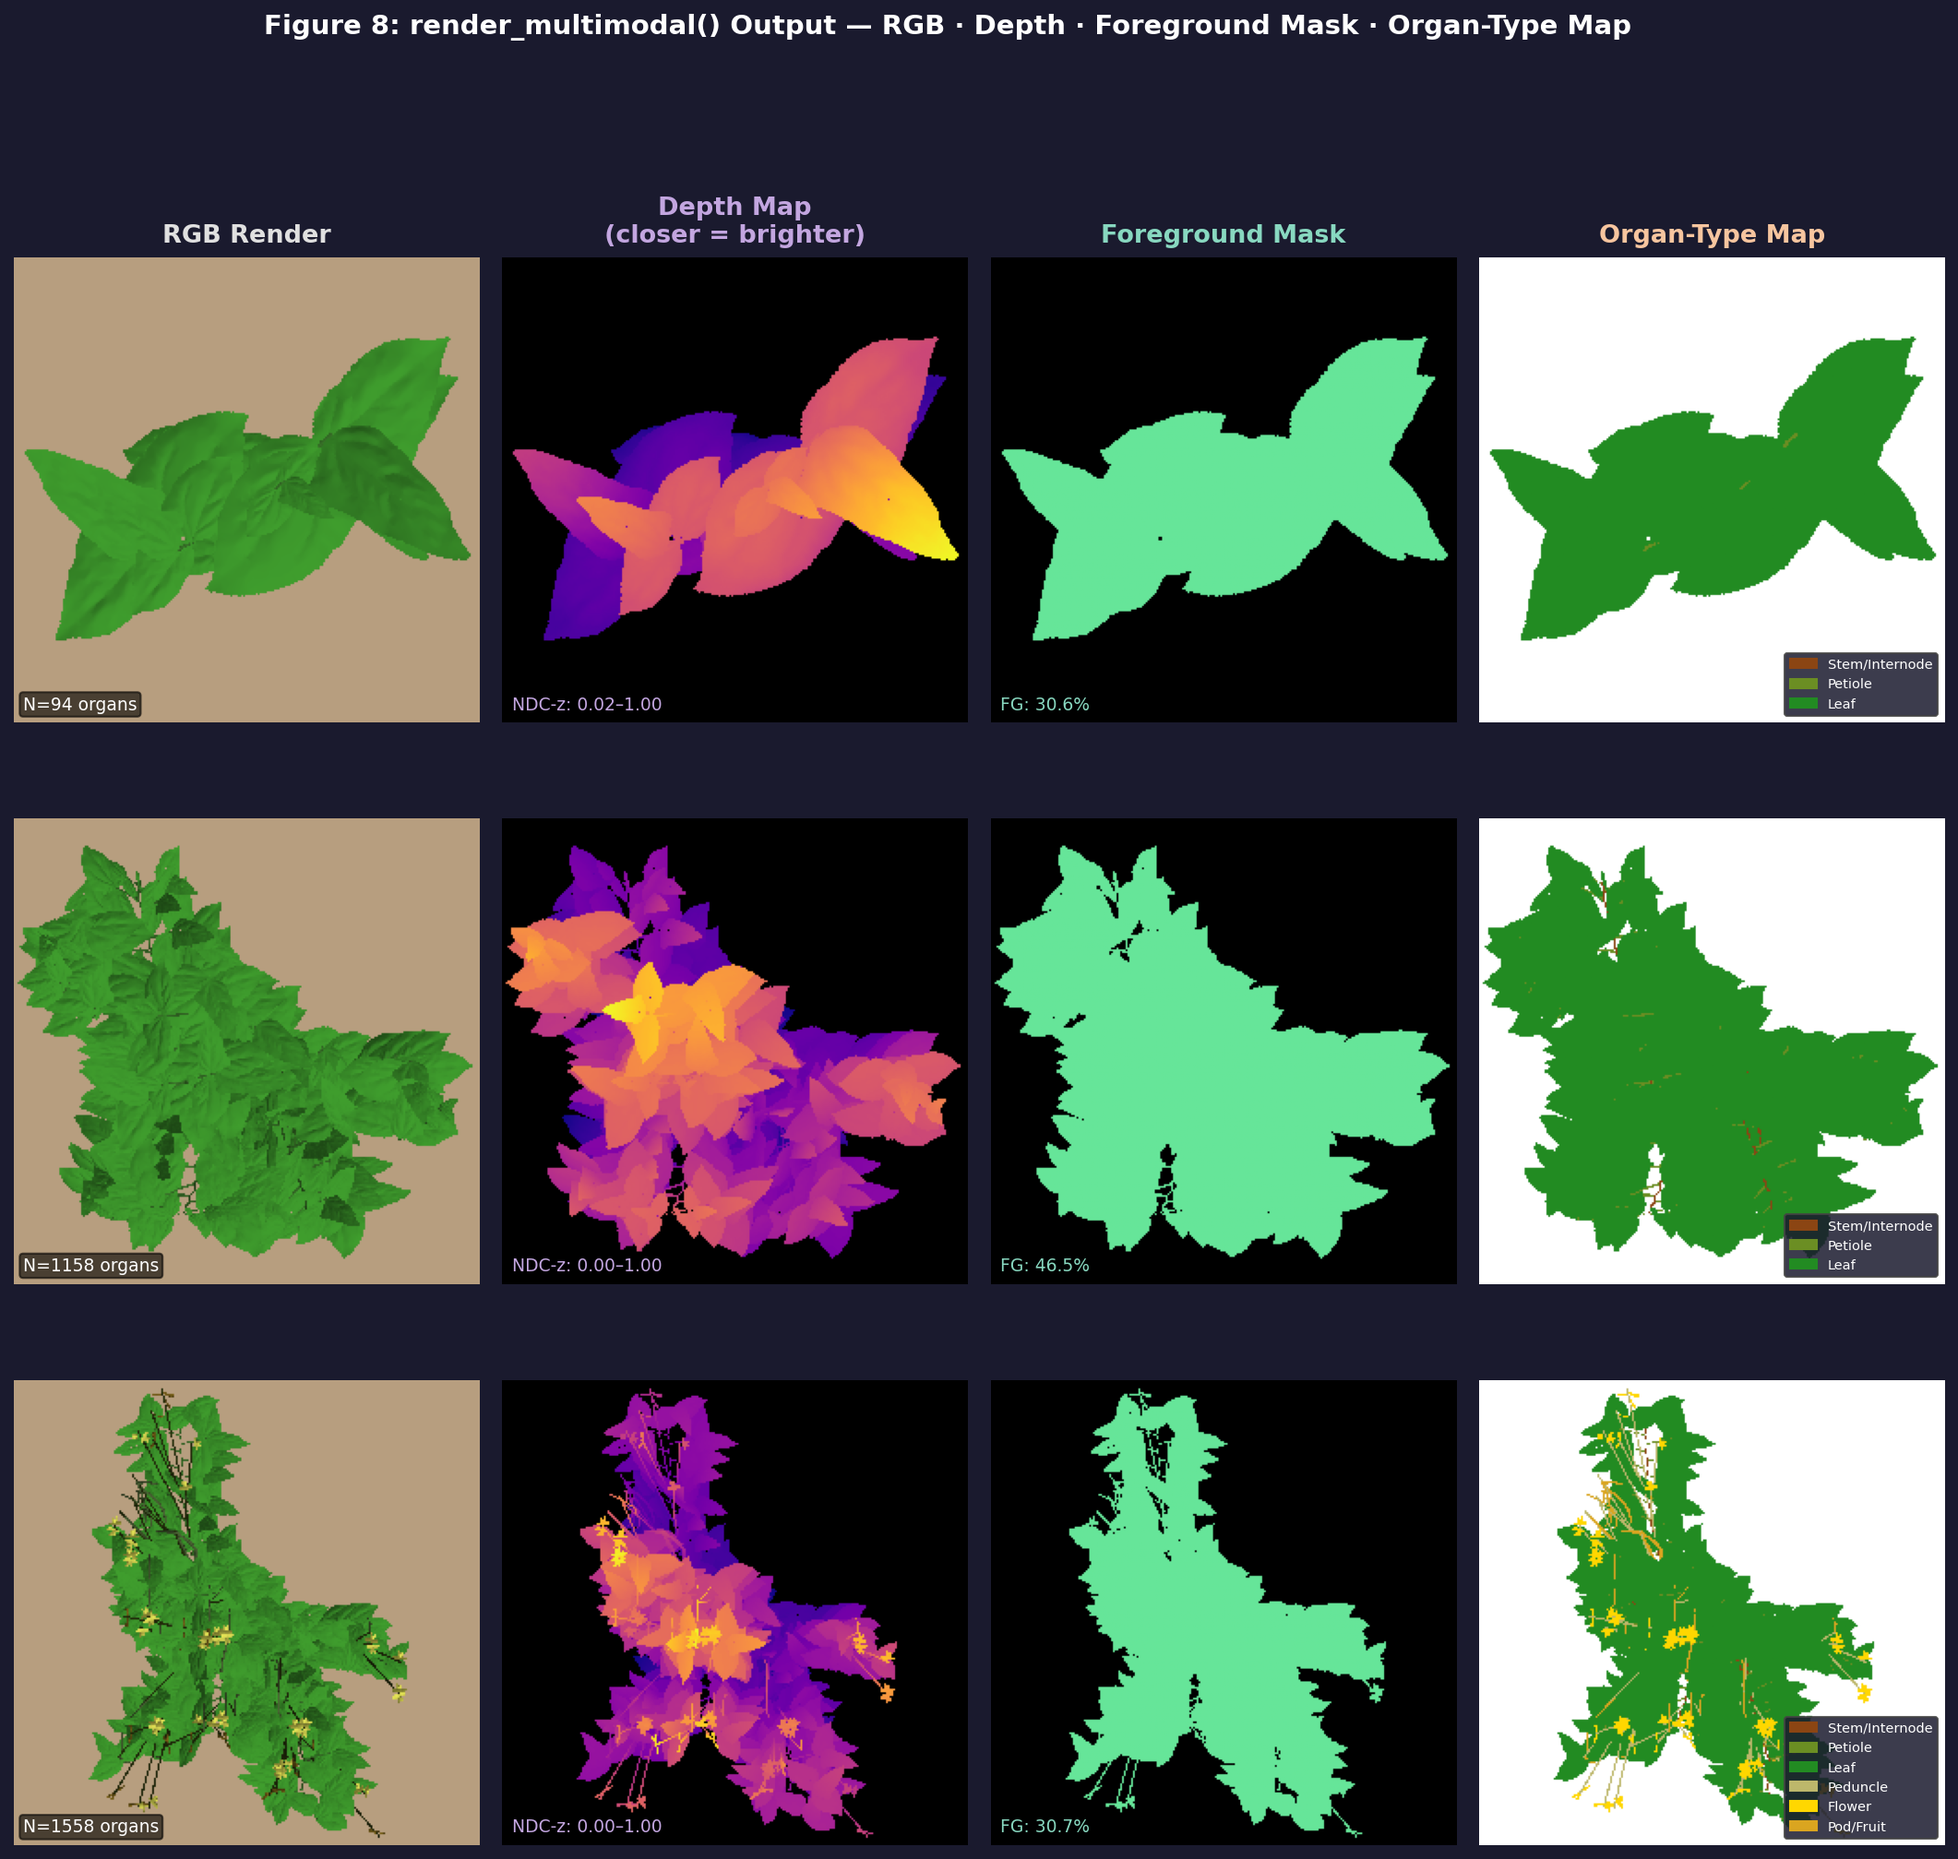
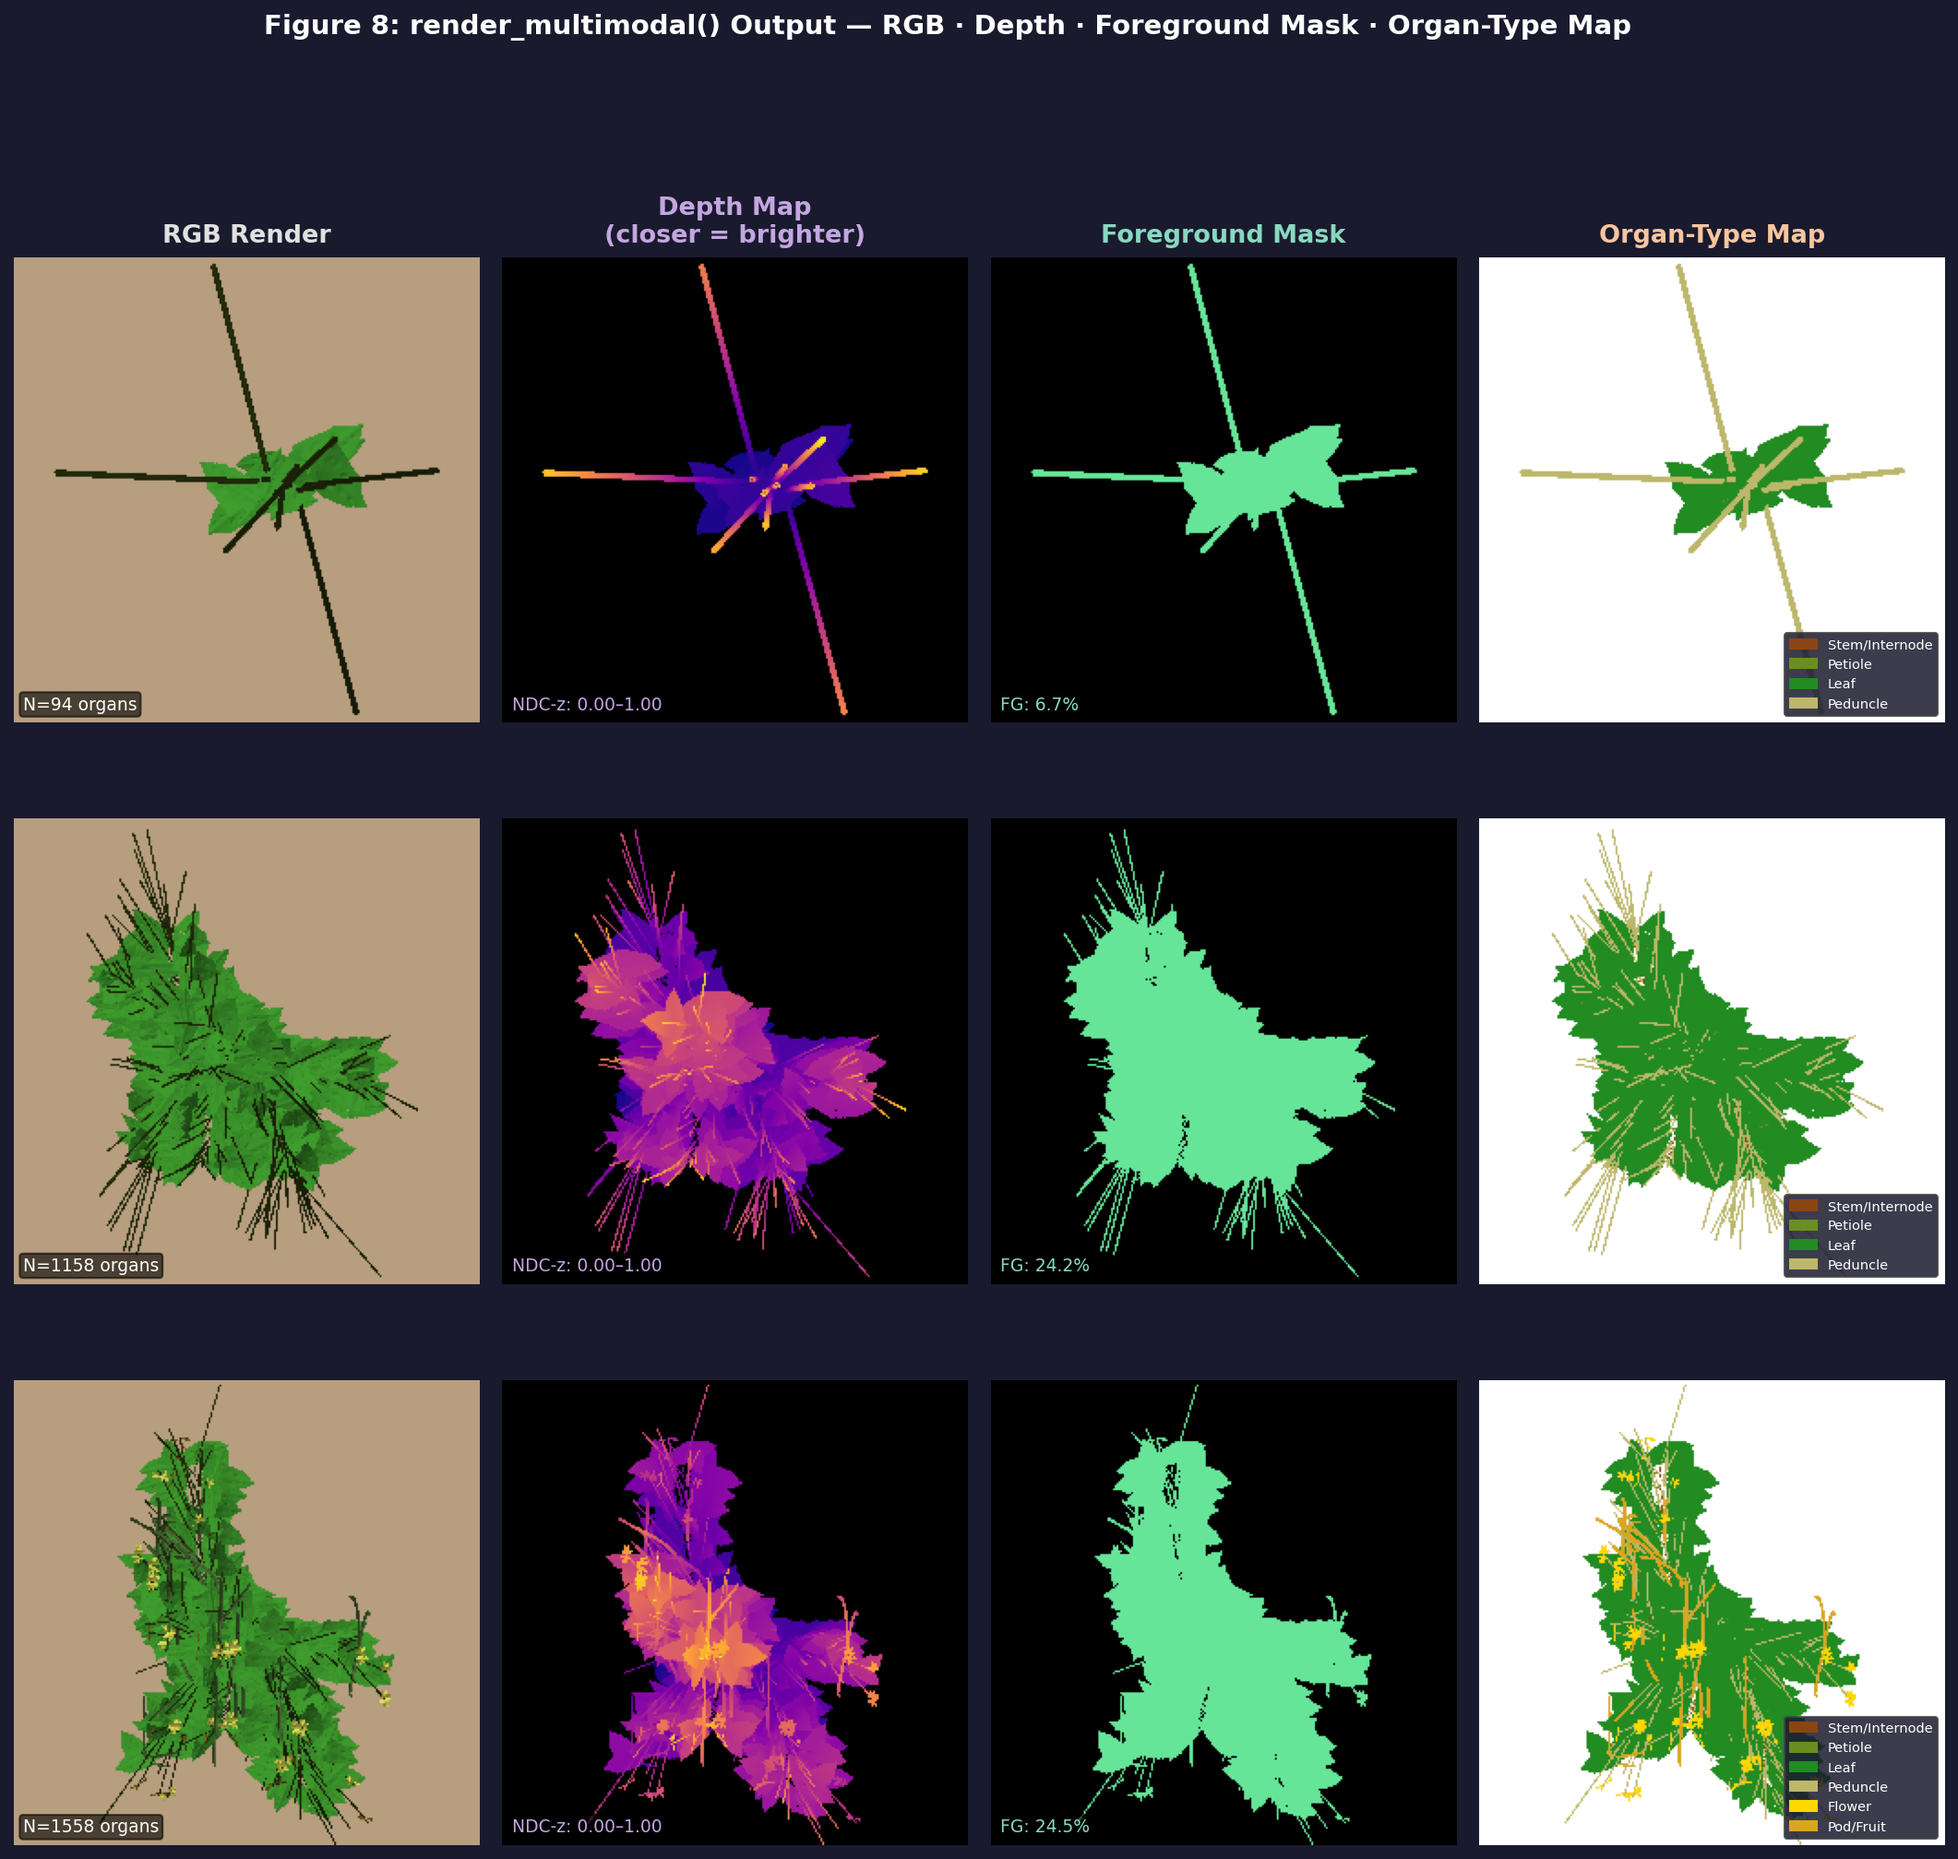
fix: preserve aborted-bud state in XML roundtrip; regenerate fig8
- part_assembly_to_xml.py now writes bud_state=5 for ORGAN_BUD_ABORTED
- regenerate fig8_multimodal_depth_mask.png with part-tensor-only pipeline

diff --git a/diffusion_based/models/part_assembly_to_xml.py b/diffusion_based/models/part_assembly_to_xml.py
@@ -94,6 +94,7 @@ class PartAssemblyToXMLConverter:
         peduncles = []
         flowers = []
         fruits = []
+        buds = []
 
         for idx in range(N):
             if not active_mask[idx]:
@@ -117,6 +118,8 @@ class PartAssemblyToXMLConverter:
                 flowers.append(idx)
             elif ot in (ORGAN_FRUIT, 8):
                 fruits.append(idx)
+            elif ot in (ORGAN_BUD, ORGAN_BUD_ABORTED):
+                buds.append(idx)
 
         # Batch 6D rotation conversion for speed
         r6_all = torch.from_numpy(p_np[:, P_COL_ROT_0:P_COL_ROT_5+1]).float()
@@ -248,6 +251,20 @@ class PartAssemblyToXMLConverter:
                 best_inode = internodes[i_local_idx]
                 phytomer_parts[best_inode]["peduncles"].append(pd_idx)
 
+        # Associate Buds to closest internode tip (bud base == internode tip)
+        bud_state_by_inode = {}
+        if buds:
+            inode_tips = np.array([part_info[i]["tip"] for i in internodes])
+            inode_tip_tree = cKDTree(inode_tips)
+            bud_bases = np.array([part_info[b]["base"] for b in buds])
+            _, nearest_bud_inodes = inode_tip_tree.query(bud_bases)
+            if not isinstance(nearest_bud_inodes, np.ndarray):
+                nearest_bud_inodes = [nearest_bud_inodes]
+            for b_idx, i_local_idx in zip(buds, nearest_bud_inodes):
+                best_inode = internodes[i_local_idx]
+                ot = part_info[b_idx]["ot"]
+                bud_state_by_inode[best_inode] = 5 if ot == ORGAN_BUD_ABORTED else 1
+
         # Associate Flowers & Fruits to closest peduncle tip
         peduncle_infls = {pd: [] for pd in peduncles}
         all_infls = flowers + fruits
@@ -374,7 +391,7 @@ class PartAssemblyToXMLConverter:
                                 elif any(ot == ORGAN_FLOWER for ot in infl_ots):
                                     bud_state = 3
                                 else:
-                                    bud_state = 1
+                                    bud_state = bud_state_by_inode.get(inode_idx, 1)
 
                                 lines.append('\t\t\t\t\t\t<floral_bud>')
                                 lines.append(f'\t\t\t\t\t\t\t<bud_state>{bud_state}</bud_state>')
@@ -408,9 +425,10 @@ class PartAssemblyToXMLConverter:
                                     lines.append('\t\t\t\t\t\t\t</inflorescence>')
                                 lines.append('\t\t\t\t\t\t</floral_bud>')
                         else:
-                            # Dormant floral bud
+                            # Dormant or aborted floral bud (no peduncle)
+                            bud_state = bud_state_by_inode.get(inode_idx, 1)
                             lines.append('\t\t\t\t\t\t<floral_bud>')
-                            lines.append('\t\t\t\t\t\t\t<bud_state>0</bud_state>')
+                            lines.append(f'\t\t\t\t\t\t\t<bud_state>{bud_state}</bud_state>')
                             lines.append('\t\t\t\t\t\t\t<parent_index>0</parent_index>')
                             lines.append('\t\t\t\t\t\t\t<bud_index>0</bud_index>')
                             lines.append('\t\t\t\t\t\t\t<is_terminal>0</is_terminal>')

diff --git a/diffusion_based/eval/generate_multimodal_outputs.py b/diffusion_based/eval/generate_multimodal_outputs.py
@@ -19,7 +19,7 @@ if repo_root not in sys.path:
 from diffusion_based.models.plant_organ_array import (
     PlantOrganArray,
     ORGAN_ROOT_META, ORGAN_SHOOT_META, ORGAN_INTERNODE, ORGAN_PETIOLE,
-    ORGAN_LEAF, ORGAN_BUD, ORGAN_PEDUNCLE, ORGAN_FLOWER_OPEN, ORGAN_FRUIT, ORGAN_FLOWER_CLOSED,
+    ORGAN_LEAF, ORGAN_BUD, ORGAN_PEDUNCLE, ORGAN_FLOWER, ORGAN_FRUIT, ORGAN_FLOWER_CLOSED,
 )
 from diffusion_based.models.helios_pytorch_renderer import HeliosPyTorchRenderer
 
@@ -59,7 +59,7 @@ def load_plant(xml_path):
     full = os.path.join(repo_root, xml_path)
     if not os.path.exists(full):
         return None, None
-    arr = PlantOrganArray.from_xml_file_typed(full)
+    arr = PlantOrganArray.from_xml_file(full)
     p14 = arr.to_part_tensor(device=DEVICE)
     return arr, p14
 
